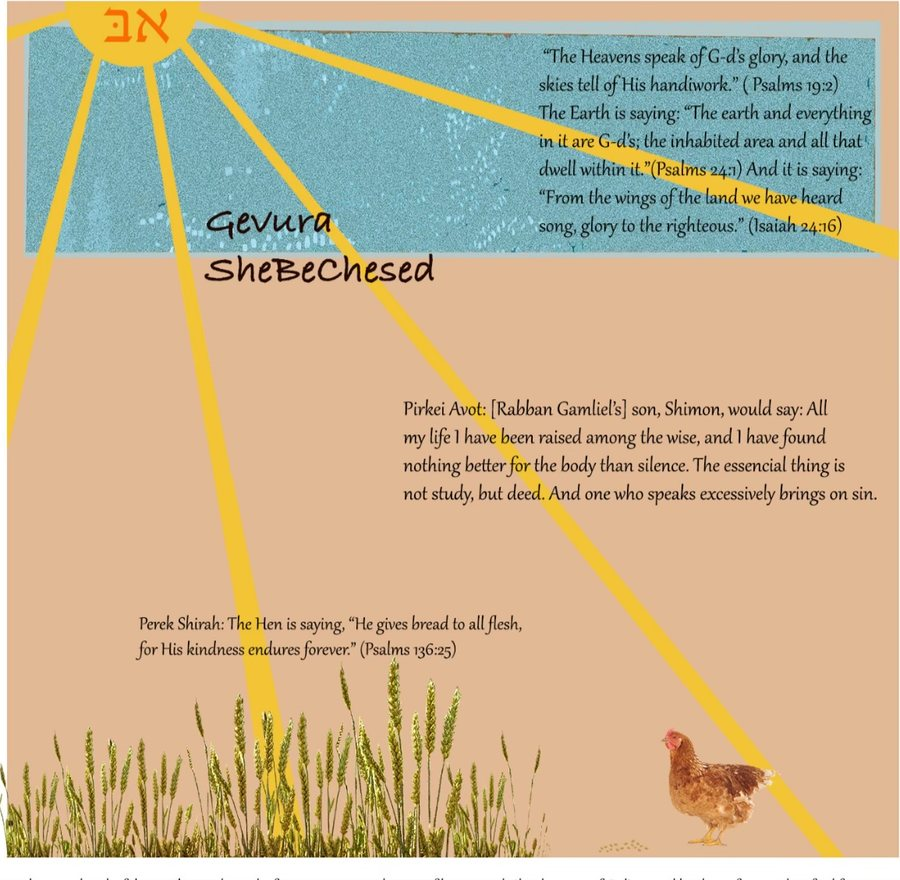
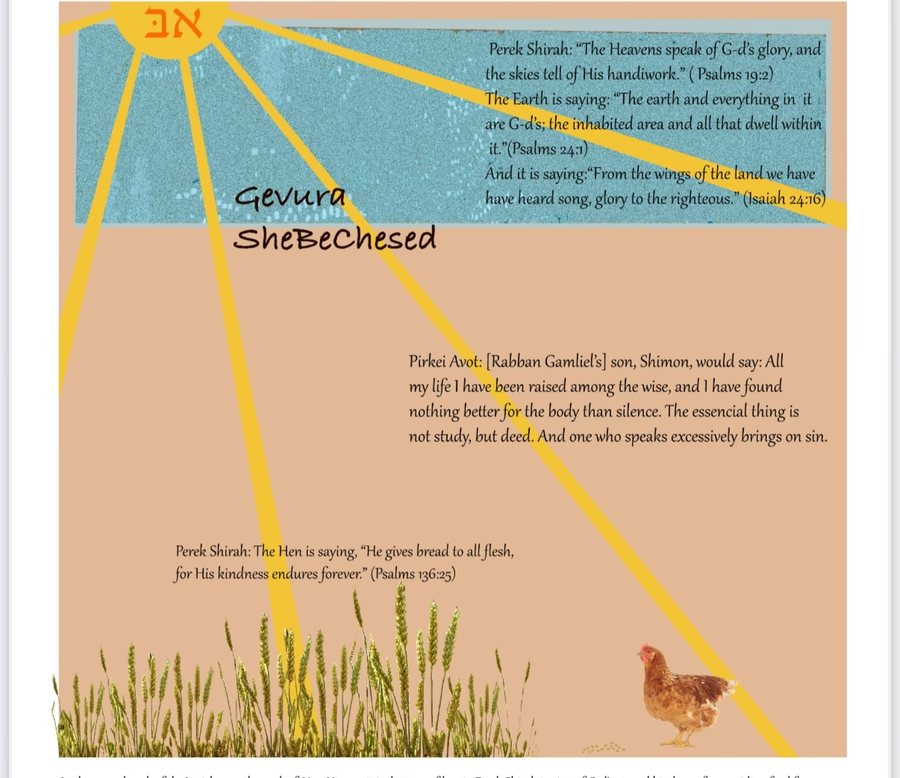
Replace week 2 with the revised Hen page
It now names the source of each song, as weeks 4 to 9 do, which is why
it went in ahead of the older capture despite still carrying the
duplicated word in Isaiah 24:16 — "we have have heard song". Left as
sent rather than repaired in the image without asking.

Claude-Session: https://claude.ai/code/session_01RS2FMfmK8R2uQnxc6BrjxF

diff --git a/index.html b/index.html
@@ -9759,7 +9759,7 @@ hr.wr-hr{border:none;border-top:1px solid var(--border);margin:14px 0;}
   // has to be reserved before the image arrives or the title jumps.
   const WEEK_ART = {
     '1':   [900, 1003],
-    '2':   [900, 880],
+    '2':   [900, 778],
     '3':   [900, 861],
     '4':  [900, 897],
     '5':  [900, 880],
